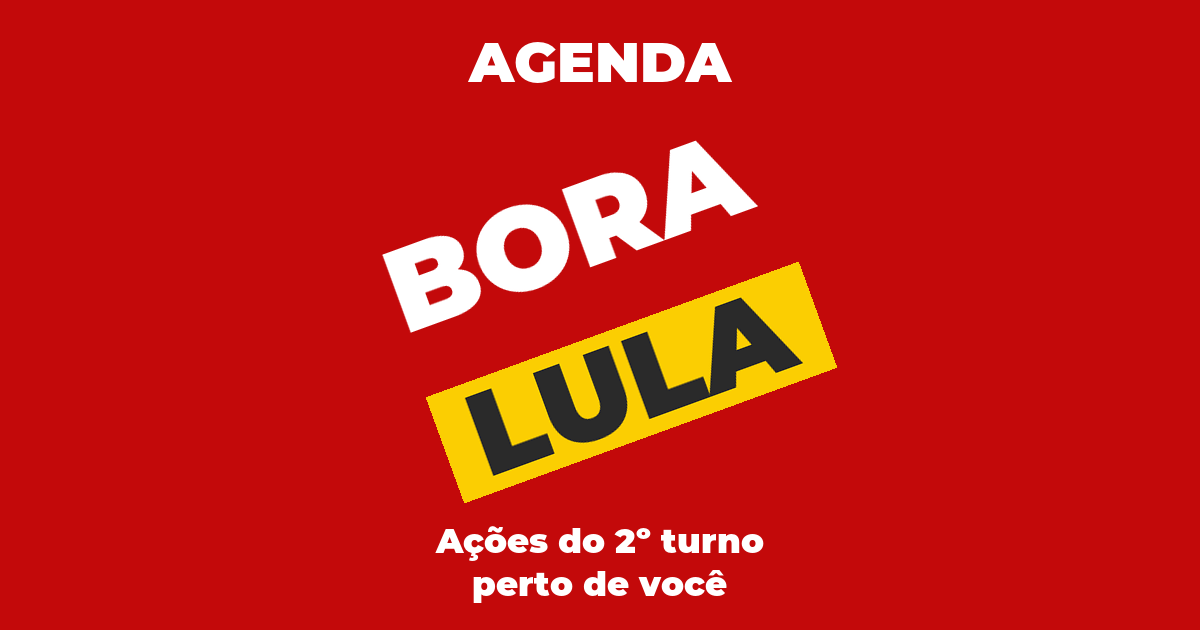
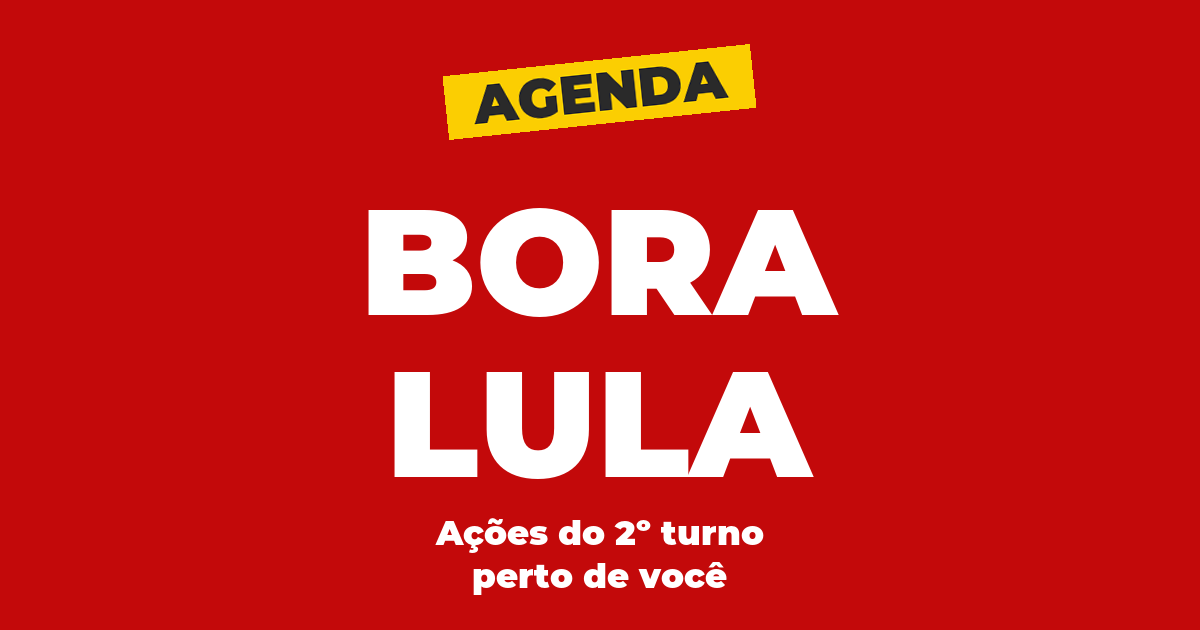
Capa: BORA LULA retos e centrados; só AGENDA inclinado na tarja amarela
Claude-Session: https://claude.ai/code/session_01VWE3kE4d5bC1SEeFrnNBs7

Changed region(s): [[0.3083, 0.2111, 0.7092, 0.9651], [0.37, 0.0603, 0.6475, 0.2413]]

diff --git a/scripts/gerar_capa.py b/scripts/gerar_capa.py
@@ -38,7 +38,7 @@ def texto_centrado(d, texto, f, cy, largura, cor):
     d.text(((largura - w) // 2 - dx, cy - h // 2 - dy), texto, font=f, fill=cor)
 
 
-def caixa_inclinada(texto, f, fundo, cor, folga=(44, 28), angulo=20):
+def caixa_inclinada(texto, f, fundo, cor, folga=(44, 28), angulo=6):
     """Tarja chapada com texto (fundo None: só o texto), girada no sentido anti-horário, pesando para a esquerda
     (RGBA transparente para colar sobre a capa)."""
     w, h, dx, dy = medir(f, texto)
@@ -56,15 +56,14 @@ def capa():
     im = Image.new("RGBA", (w, h), VERMELHO)
     d = ImageDraw.Draw(im)
     # tudo dentro do quadrado central (x de 285 a 915)
-    texto_centrado(d, "AGENDA", fonte(56), 62, w, BRANCO)
-    # BORA e LULA no mesmo ângulo, pesando para a esquerda; LULA desce no eixo inclinado (por isso fica mais à direita)
-    bora = caixa_inclinada("BORA", fonte(118), None, BRANCO, folga=(30, 14))
-    im.alpha_composite(bora, ((w - bora.width) // 2 - 32, 232 - bora.height // 2))
-    lula = caixa_inclinada("LULA", fonte(118), AMARELO, TINTA, folga=(30, 14))
-    im.alpha_composite(lula, ((w - lula.width) // 2 + 32, 382 - lula.height // 2))
+    # só AGENDA inclinado, na tarja amarela, pesando para a esquerda; BORA e LULA retos e centrados
+    agenda = caixa_inclinada("AGENDA", fonte(54), AMARELO, TINTA, folga=(26, 12))
+    im.alpha_composite(agenda, ((w - agenda.width) // 2, 92 - agenda.height // 2))
+    texto_centrado(d, "BORA", fonte(150), 262, w, BRANCO)
+    texto_centrado(d, "LULA", fonte(150), 425, w, BRANCO)
     f = fonte(34)
-    texto_centrado(d, "Ações do 2º turno", f, 543, w, BRANCO)
-    texto_centrado(d, "perto de você", f, 586, w, BRANCO)
+    texto_centrado(d, "Ações do 2º turno", f, 535, w, BRANCO)
+    texto_centrado(d, "perto de você", f, 578, w, BRANCO)
     im.convert("RGB").save(APP / "capa.png", optimize=True)
 
 
